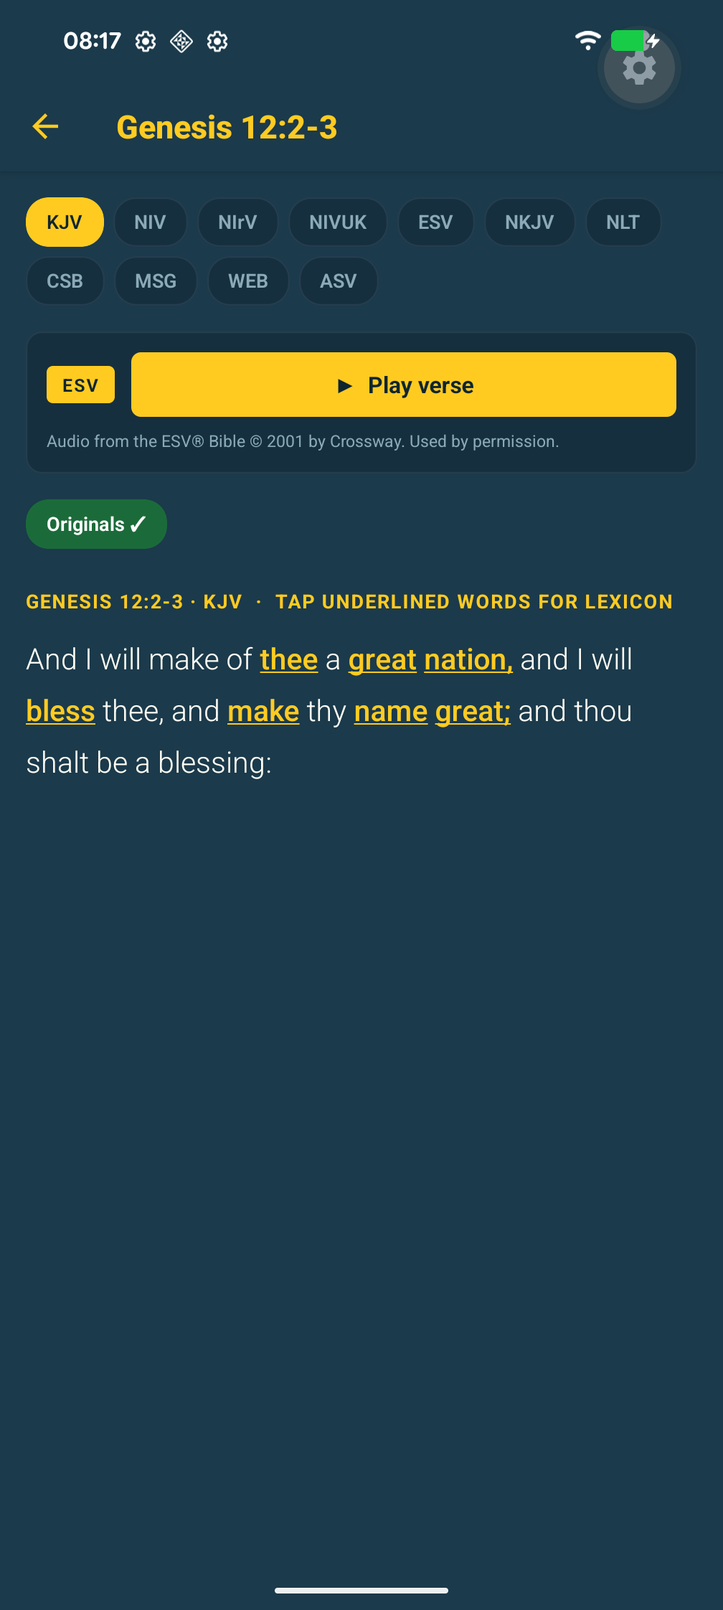
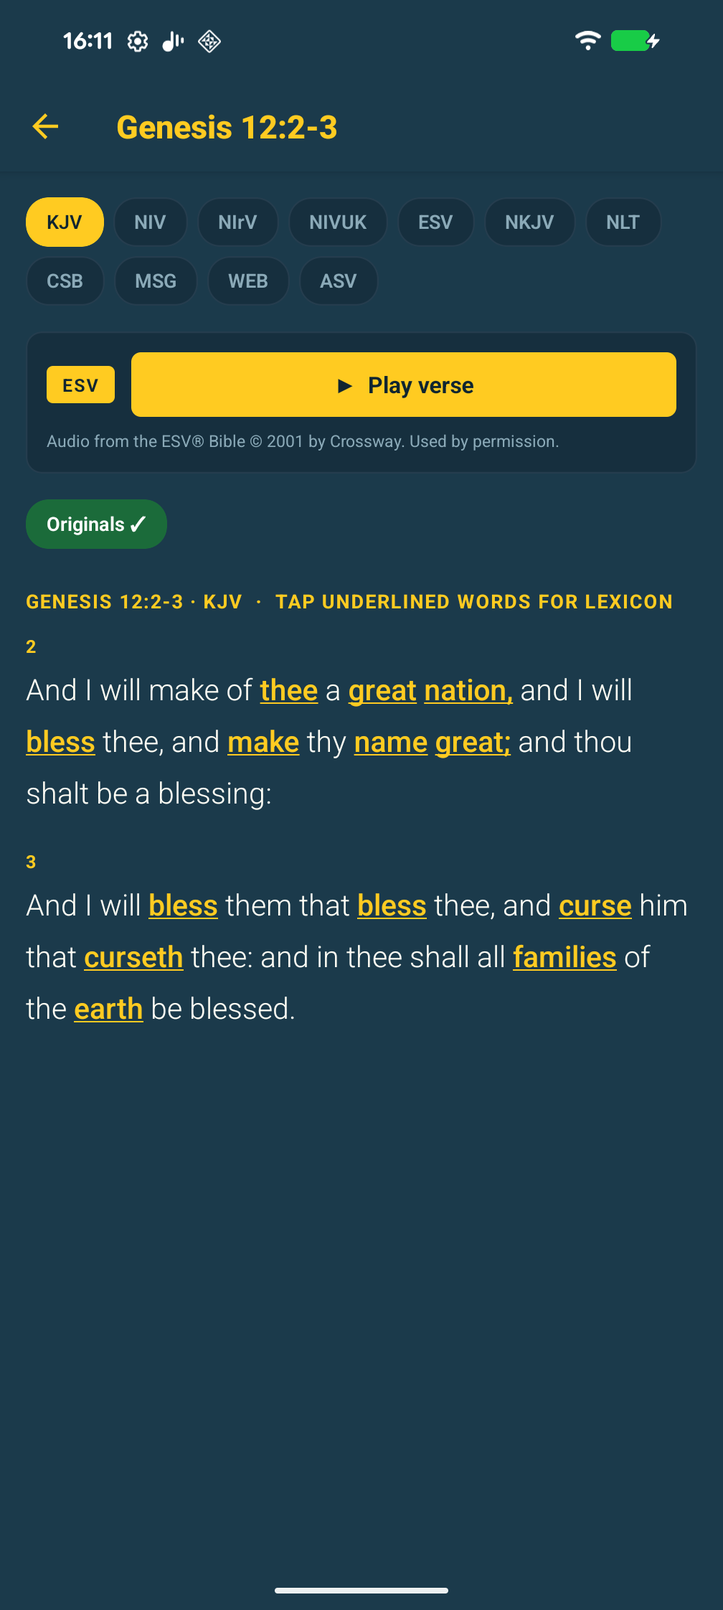
Update app version and build numbers; add new blog posts and screenshots

diff --git a/docs/blog-post-mobile-launch.md b/docs/blog-post-mobile-launch.md
@@ -1,0 +1,150 @@
+<!--
+Image paths below are relative to the repo, pointing at
+mobile/screenshots/formatted/android/. When publishing on askadam.cloud,
+move these into the post's image folder and update the src= values.
+-->
+
+# A small app, two app stores, fourteen days
+
+Tour of the Bible has a mobile app now. iOS is on the App Store. Android is in closed testing on Google Play, walking out the 14-day clock that Google now imposes on every new developer account before they let you near the production track. The same JavaScript bundle drives both apps and the website it grew out of.
+
+<figure style="margin: 2rem 0; text-align: center;">
+  <img src="../mobile/screenshots/formatted/android/tour.png" alt="The main reading-plan view on Android, showing the 66-book checklist with progress at the top." style="max-width: 320px; width: 100%; border-radius: 18px; box-shadow: 0 12px 40px rgba(0,0,0,0.18);" />
+  <figcaption style="margin-top: 0.75rem; font-size: 0.9rem; color: #6b7a82;">The whole tour, on a phone. Same checklist as the website, just thumb-shaped.</figcaption>
+</figure>
+
+I expected this to be straightforward. The reading-plan logic, the verse fetcher, the lexicon, the audio player — all of that already existed in the [web version](https://bible-tour.vercel.app). I told myself I was wrapping it for a phone.
+
+The code part was true. Almost everything else wasn’t.
+
+## What going mobile actually meant
+
+The website is a single-page Next.js app on Vercel. It proxies the YouVersion and Crossway APIs server-side so the keys never reach the browser. Progress lives in the browser’s `localStorage`. There is no database, no auth, no analytics SDK.
+
+I wanted the same shape on mobile. Same proxy. Same on-device storage. Same lack of user account. Same lack of telemetry. The only architectural change was that the components needed to render in React Native instead of HTML, and the network calls would come from a phone instead of a Chrome tab.
+
+So: Expo SDK 55 on React Native 0.83, Expo Router for navigation (file-based, almost identical to the Next.js App Router I already knew), EAS for the native compile and signing, expo-audio for ESV verse narration that survives backgrounding. The Strong’s lexicon ships as a precomputed JSON inside the bundle. There is no runtime database to manage because there is no runtime database.
+
+The new code came to a few thousand lines of TypeScript, mostly screen layout and audio session glue. That part went quickly.
+
+## How I actually built it
+
+Most of this was written with [Claude Code](https://www.claude.com/product/claude-code) sitting in my terminal. I want to be honest about what that means in practice, because “I built it with AI” is a phrase that has started to mean nothing.
+
+A few things I noticed.
+
+If I gave Claude the whole source of a file rather than just the function I was editing, the suggestions respected what was already there. If I gave it a snippet, the suggestions read fine on their own and quietly broke the surrounding code. Same model, same prompt, vastly different output, just because of context. Most of the “the AI wrote bad code” stories I see boil down to this. People hand it half a problem and then complain it gave back half an answer.
+
+Smaller asks were better. “Add a Strong’s lexicon overlay” gives you a sweeping rewrite. “Extract the existing modal into its own component first, and then I’ll add the overlay in a follow-up” gives you something you can read in thirty seconds and accept. The model is perfectly capable of large changes. The problem is large changes are hard to audit, and unaudited changes are how you ship things you regret.
+
+I wrote a lot of negative constraints up front. “No analytics. No third-party SDKs. No backend storage. No accounts.” That single specification probably saved me a half-day of nudging the model away from the React-Native default of bolting on Sentry, Firebase, and a registration screen.
+
+Boilerplate is where the model earned its keep. EAS config, app.json scaffolding, Expo Router file structure, the dozen pages of React Native StyleSheet declarations that every screen needs — that’s where I let it cook and saved my actual brain for the audio session and the lexicon highlighting tokenizer.
+
+When something didn’t work the fastest fix was almost always to paste the exact error in and say what I expected. Not because the model is smarter than me. Because I’d lose ten minutes finding the right line and it would lose ten seconds.
+
+The conversation log over this two-week stretch ran to hundreds of turns. I’d guess about 80% of the lines of code in the mobile app were typed by Claude first. About 100% of the decisions about what to build and why were mine. That ratio felt right.
+
+I’ll say something opinionated here, since it’s the elephant in the room. I don’t care which keystrokes wrote which lines. I care whether the thing works, whether it’s honest about what it does, and whether I can fix it next time it breaks. By all three measures the code in this repo is better than what I’d have produced solo, in a fraction of the time. Anyone telling you that you’re “not really shipping” if you used a model is selling you something — usually their own ego.
+
+## The submissions stuff is where the time really went
+
+The actual build was three days of work. The remaining ten days were forms.
+
+To get an iOS app onto the App Store you need a developer account, a distribution certificate, a provisioning profile, an App Store Connect listing with a name, subtitle, promo text, full description, keywords, screenshots in three different device-class sizes, the age-rating questionnaire, the App Privacy nutrition label, a copyright line, support URL, marketing URL, privacy policy URL, age rating answers, an export-compliance declaration about whether your app uses encryption, and the actual binary. There is also a Privacy Manifest XML that lives inside the app bundle and declares exactly which iOS APIs you call and why, with reason codes you have to look up. UserDefaults access, for example, is reason code CA92.1. That is a real number you have to know about.
+
+Google Play is comparable in scope and considerably harder if you’re a new developer. You need a $25 one-off account fee, a listing with a short description (80 chars), a long one (4,000 chars), a feature graphic at exactly 1024×500, a 512×512 icon, phone screenshots, content rating, target audience, ads declaration, news-app declaration, government-app declaration, COVID-19 declaration, financial-features declaration, app-access declaration, the Data Safety form (which is a more granular cousin of Apple’s nutrition label), and a privacy policy URL.
+
+And then the policy that genuinely caught me out. Since November 2023, personal Play developer accounts must run a closed test with at least 12 active testers for 14 consecutive days before the production track even unlocks. There is no exception. There is no waiver. There is no fast-track. You wait the fortnight or you don’t ship. I am, as I write this, sitting in the middle of that fortnight.
+
+The Data Safety form alone has 26 sub-questions across 13 categories, and every “no” still requires a confirmation click. Most days towards the end I spent more time inside App Store Connect and Play Console than in my code editor.
+
+I am not complaining. I am telling you, because nobody told me.
+
+## Things that actually broke
+
+A few specifics that other React Native devs might run into.
+
+I inherited a `package.json` where the `expo` package was on `~54.0.33` but every individual Expo module had been bumped to `^55.x` at some point. iOS builds tolerated this. Android Kotlin compilation rejected it instantly with an `Unresolved reference 'service'` error coming out of `expo-constants`. The fix was running `expo install expo@^55` to align the SDK, then `expo install --check --fix` to pull every other module to its blessed version. Lesson: pin your SDK and never mix.
+
+The mobile app lives in a `mobile/` folder inside the larger website repo. Both have their own `node_modules` with their own `react`. Metro’s resolver walks up the tree by default, finds two reacts at different versions, and gets confused in a way that surfaces three layers down the stack. The fix is a tiny `metro.config.js` that pins resolution to the mobile folder only:
+
+```js
+config.resolver.disableHierarchicalLookup = true;
+config.resolver.nodeModulesPaths = [path.resolve(__dirname, 'node_modules')];
+```
+
+The most annoying one was `RECORD_AUDIO`. Google Play kept demanding a privacy-policy URL because the AAB declared the permission. We don’t record any audio. The permission was being merged into our final `AndroidManifest.xml` from `expo-audio`’s own manifest, because expo-audio supports recording even though we only use the playback half of it. Native dependencies merging permissions you didn’t ask for is, I learned, a thing that just happens on Android. The fix turned out to be a 25-line config plugin that injects `tools:node="remove"` to strip the permission at manifest-merge time:
+
+```js
+manifest['uses-permission'].push({
+  $: { 'android:name': 'android.permission.RECORD_AUDIO', 'tools:node': 'remove' },
+});
+```
+
+A couple of hours to track down. Twenty minutes to fix.
+
+The first Apple submission got rejected on guideline 2.5.4: background audio mode declared but no audible content found. The reviewer hadn’t found the play button. It lives inside a verse modal, only on the ESV translation, behind a translation pill switcher. Three taps deep. I didn’t need to change the binary; I just needed to send step-by-step reproduction instructions and a screen recording through the Resolution Center. Approved on the next pass. The lesson there is that App Review is run by people, not robots, and people benefit from being told where to look.
+
+<figure style="margin: 2rem 0; text-align: center;">
+  <img src="../mobile/screenshots/formatted/android/verse_esv.png" alt="The verse modal in ESV mode, with the audio player bar at the bottom of the screen." style="max-width: 320px; width: 100%; border-radius: 18px; box-shadow: 0 12px 40px rgba(0,0,0,0.18);" />
+  <figcaption style="margin-top: 0.75rem; font-size: 0.9rem; color: #6b7a82;">The audio bar Apple’s reviewer didn’t find on the first try. Switch to ESV, scroll, tap play.</figcaption>
+</figure>
+
+And then a verse-range bug nobody had caught on the web app, which is mildly humiliating: Originals mode, the Hebrew/Greek lexicon view, was only displaying the first verse of any multi-verse reference. The reading plan is full of ranges like `Genesis 12:2-3` and `Exodus 20:1-17`. The token lookup function used `String(ref).match(/^(\d+):(\d+)/)`, which captured only the first verse number. Two hours of debugging, six lines of new logic. Both apps got the fix because the lexicon code is shared. That, as a bonus, is the single best argument for a shared core: when you find a bug, you fix it once.
+
+<div style="display: flex; gap: 1rem; flex-wrap: wrap; justify-content: center; margin: 2rem 0;">
+  <figure style="flex: 1 1 280px; max-width: 320px; margin: 0; text-align: center;">
+    <img src="../mobile/screenshots/formatted/android/orginals_active.png" alt="Originals mode showing the KJV with Hebrew and Greek words highlighted in yellow." style="width: 100%; border-radius: 18px; box-shadow: 0 12px 40px rgba(0,0,0,0.18);" />
+    <figcaption style="margin-top: 0.75rem; font-size: 0.9rem; color: #6b7a82;">Originals mode. Yellow words have a Strong’s entry behind them.</figcaption>
+  </figure>
+  <figure style="flex: 1 1 280px; max-width: 320px; margin: 0; text-align: center;">
+    <img src="../mobile/screenshots/formatted/android/orginals_panel.png" alt="The lexicon drawer expanded, showing the Strong's entry for a Hebrew word." style="width: 100%; border-radius: 18px; box-shadow: 0 12px 40px rgba(0,0,0,0.18);" />
+    <figcaption style="margin-top: 0.75rem; font-size: 0.9rem; color: #6b7a82;">Tap a word and the lexicon drawer slides up. Part of speech, gloss, full entry.</figcaption>
+  </figure>
+</div>
+
+## The workflow that emerged
+
+A pattern shook out for the mechanical bits of mobile shipping that I’ll keep using.
+
+Code change locally with Claude in the loop. `npx expo run:ios` or `expo run:android` to a connected device or simulator. Hot-reload covers most iterations, which is a much nicer feedback loop than I’d had on previous mobile work. When I needed a real signed AAB or IPA to upload, I’d kick off `eas build --platform android --profile production --non-interactive` in a background task and keep working. EAS handles auto-submit for Android. iOS submission I kept manual, because pushing a new build cancels any in-progress App Review and I didn’t want to keep restarting the queue.
+
+The piece I underestimated was state across sessions. Every time I started a new Claude Code conversation, I had it read [`docs/handoff-todo.md`](https://github.com/adamswbrown/bible-tour/blob/main/docs/handoff-todo.md) first. Continuity across sessions came from that file, not from the model’s memory. I’d update it at the end of each working session as if I were briefing a colleague who was about to take over from me. Honestly, that one habit was the difference between three coherent sessions and three chaotic ones.
+
+## What I’d do differently
+
+I’d set up Closed Testing with twelve testers as the very first Play release, not after a few rounds of internal testing. The 14-day clock starts whenever you start it, so you might as well start it on day one of the project. I’d also use `expo-build-properties` from the beginning to declare every Android permission stripping rule explicitly, instead of discovering them when Play rejects an AAB.
+
+Screenshots: I’d generate them inside the simulator at the device size each store category demands, rather than capturing native and resizing. Saves a round of rejection.
+
+And I’d write the Notes for Reviewer text upfront, not when Apple asks for it. That alone would have prevented the 2.5.4 rejection if I’d explained the audio-discovery path on the first submission.
+
+## The takeaway, such as it is
+
+A small, principled app can ship for free in two weeks. The hard parts are not the code. The platforms have made distribution paperwork the actual barrier to entry, which means a working app and a finished app are weeks apart. Knowing that going in changes how you scope the work.
+
+I came out of this thinking that pair-programming with a model, done seriously, is the most leveraged software work I’ve ever done. The leverage isn’t in writing more code. It’s in spending your attention only on the decisions that need a human, and letting the model handle the bits where the value of careful human attention is approximately zero.
+
+If you’re thinking about shipping your own small thing, ship it. The friction is real. It’s also entirely known, well-mapped, and survivable. None of it is the bit that should stop you.
+
+<figure style="margin: 2rem 0; text-align: center;">
+  <img src="../mobile/screenshots/formatted/android/settings.png" alt="The Settings / About screen showing the credits and translation list." style="max-width: 320px; width: 100%; border-radius: 18px; box-shadow: 0 12px 40px rgba(0,0,0,0.18);" />
+  <figcaption style="margin-top: 0.75rem; font-size: 0.9rem; color: #6b7a82;">The About screen — credits, translations, the disclaimer that this app is not affiliated with TMBH, and an email address that goes to one human.</figcaption>
+</figure>
+
+## If you want to try it
+
+The iOS version is live on the App Store today. Search “Tour of the Bible”, or use [this link](https://apps.apple.com/app/tour-of-the-bible/id6764106620). It’s free, there’s no account, no in-app purchase, no upsell.
+
+Android is in the awkward 14-day closed-testing window I described above. I’m not asking for testers as a marketing favour. I’m asking because Google won’t unlock the public Play Store track until I have around 12 active testers for two consecutive weeks. If you have an Android phone and five minutes, you’d genuinely be helping me ship.
+
+To join the Android beta, go to [bible-tour.vercel.app/beta](https://bible-tour.vercel.app/beta) and follow the instructions. It’s a two-step: join a Google Group with the Gmail address tied to your Play Store account, then tap the opt-in link. After that, the app installs from the Play Store like anything else and updates itself automatically.
+
+If you’d rather not install anything, the original web version is still at [bible-tour.vercel.app](https://bible-tour.vercel.app) and isn’t going anywhere.
+
+Bugs, feature requests, “this verse is rendering weirdly” notes — email me at [adam@askadam.cloud](mailto:adam@askadam.cloud), or open an issue at [github.com/adamswbrown/bible-tour](https://github.com/adamswbrown/bible-tour). I read everything that lands in either place.
+
+— Adam
+
+*[Tour of the Bible on the App Store](https://apps.apple.com/app/tour-of-the-bible/id6764106620) · [Android beta](https://bible-tour.vercel.app/beta) · [Source](https://github.com/adamswbrown/bible-tour)*

diff --git a/docs/blog-post-bible-tour-and-eagle.md b/docs/blog-post-bible-tour-and-eagle.md
@@ -1,0 +1,213 @@
+# From Bible Tour to Eagle Method
+
+I didn’t set out to build a Bible app.
+
+I just wanted a better way to use [Matt Whitman’s *Lightning-Fast Field Guide to the Bible*](https://www.thetmbh.com/tourofthebible) in real life.
+
+What I loved about the idea behind the tour was how refreshingly doable it felt. Instead of treating the Bible like something you had to conquer with a giant reading plan, it gave you a way to move across all 66 books in one sitting by reading a small set of carefully chosen passages. It made the whole thing feel approachable.
+
+But as soon as I tried imagining myself actually using it, I kept running into the same thought: this would be much easier with a really simple companion app.
+
+Not a platform. Not a church product. Not an “engagement” machine with accounts, streaks, notifications, and all the usual baggage. Just something clean that would let you open the verses quickly, keep your place, and make the whole experience feel less awkward.
+
+That was the beginning of **Bible Tour**.
+
+## The first version was intentionally small
+
+The main app is basically built around one promise: make it easy to move through the tour without friction.
+
+So I kept it simple on purpose.
+
+It runs on **Next.js 16** and **Vercel**. It stores progress in `localStorage`. There’s no database. No user table. No real backend apart from a small verse proxy where it actually matters. You open the app and start reading.
+
+That local-first decision ended up shaping almost everything else.
+
+I didn’t want somebody to feel like they had to “join” something before they could read Genesis 12 or Romans 1. I wanted the app to feel ready the second it loaded.
+
+So the first version focused on a few practical things:
+
+- a checklist covering all 66 books
+- inline verse reading
+- translation options
+- progress that stays on the device
+
+That sounds modest, but I still think modest is underrated in software. A lot of products are bloated because they’re trying to prove how much they can do. This one got better every time I cut it back to what actually helped.
+
+## Translation support turned out to be a very real design problem
+
+One thing I didn’t want to fake was Bible translation support.
+
+People actually care which version they’re reading, and for good reason. But the moment you support multiple translations, you run into the practical reality that not every version can be handled the same way.
+
+So the app ended up with a split setup:
+
+- **YouVersion Developer API** for licensed translations like NIV
+- **bible-api.com** for public-domain translations like KJV, WEB, and ASV
+
+That meant I could offer real options without pretending the licensing landscape didn’t exist. If the text can be shown inline, great. If it can’t, the app hands off cleanly instead of doing something weird.
+
+In hindsight, that was one of the more important product decisions in the whole build. It kept the experience honest.
+
+## Then I ran into the next obvious question
+
+Once the main app existed, I started feeling the limitation of it pretty quickly.
+
+Bible Tour is great for breadth. It helps you move. It helps you get a feel for the shape of Scripture. But after you’ve worked through a few books, another question starts to show up:
+
+What do you do when one of those verses actually sticks with you?
+
+What if you don’t just want to check off Ephesians or Isaiah or John? What if you want to remember something from it properly?
+
+That’s where the **Eagle Method** came in.
+
+I’d been watching [a video from Bible Animations](https://www.youtube.com/watch?v=V6cLQVFQN7o) that described Scripture memory in a way I found really compelling. The framing was simple:
+
+1. Survey the river.
+2. Map the river.
+3. Follow the current.
+
+What I liked about it was that it didn’t treat memorisation like brute-force repetition. It treated it more like orientation. Before trying to hold onto a verse, you first understand the book, then find the verse inside it, then follow the surrounding flow of thought so the verse isn’t floating around by itself.
+
+That immediately felt like the natural “part two” of Bible Tour.
+
+The first app helps you travel across the Bible.
+The Eagle layer helps you stay with something once you’ve found it.
+
+## I didn’t want a separate product
+
+This part mattered to me.
+
+I could have taken the Eagle idea and spun it into a separate app, but that would have been the wrong move. It would have fractured the experience and duplicated a bunch of logic the project already had.
+
+The original app already knew:
+
+- the books
+- the reading plan
+- the verse references
+- the translation setup
+
+So instead of building something parallel, I added a second route structure:
+
+- `/eagle`
+- `/eagle/[book]`
+
+That let the study flow grow out of the tour instead of sitting awkwardly beside it.
+
+## The Eagle app became a different kind of reading experience
+
+The Eagle index is pretty lightweight. It lets you browse all the books, filter by testament, and mark books as studied. It’s meant to feel like a doorway, not a destination.
+
+The real work happens on the book pages.
+
+Each one walks through the three stages.
+
+### Stage 1: Survey the river
+
+This is the part where you ask the basic questions you should probably ask before trying to “memorise” anything:
+
+- Who wrote this?
+- When?
+- For whom?
+- Why?
+
+I didn’t want this stage to turn into a giant commentary layer. The goal wasn’t to build a theology engine. The goal was just to give each book a lens.
+
+So the app uses local intro data in `app/data/book-info.json`, with optional IQ Bible enrichment where it helps. That keeps the feature useful without making it brittle.
+
+### Stage 2: Map the river
+
+This is the part I found unexpectedly satisfying to build.
+
+A reference like `Ephesians 2:8-10` is not just a citation. It has shape. It lives somewhere in the book. It has a physical sense to it once you stop treating it like a disconnected label.
+
+So I built parsing around the actual kinds of references in the reading plan:
+
+- single verses
+- verse ranges
+- cross-chapter spans
+- chapter spans
+- oddball qualitative references that don’t fit neatly into verse math
+
+That let the app do more than say, “Here is your target verse.” It could say, “This lands in chapter 2,” or, where verse counts are available, “This sits roughly here inside the chapter.”
+
+That may sound like a small thing, but I don’t think it is. Location helps memory. Context helps memory. Shape helps memory.
+
+And once I brought the translation system from the main app into Eagle as well, the study flow started feeling much more complete. Now you can read those target verses in the same family of versions the main app supports, with the Eagle side defaulting to **NIV**.
+
+### Stage 3: Follow the current
+
+This was the turning point.
+
+I knew I didn’t want every Eagle page to depend on live third-party requests for context. That would make the experience slower, more fragile, and harder to reason about. So instead, I decided to pre-bake the chapter-level summary layer into the project.
+
+I scraped and normalized chapter summaries for all 66 books.
+
+That gave me:
+
+- **1,189 chapter summaries**
+- stored locally in `app/data/chapter-summaries.json`
+- no runtime dependency for the core context layer
+
+That one decision changed the feel of the feature more than anything else.
+
+Once those summaries were in place, the book pages could build context windows around the target passages instantly. If a reading-plan verse lands in chapter 6, the page can show the nearby chapters, highlight the target zone, and help the reader follow the current of the argument or story.
+
+That made the feature feel less like a UI experiment and more like an actual study tool.
+
+## Underneath it all, the code got cleaner
+
+One thing I’m happy about is that the Eagle work didn’t just add features. It forced the project into a better shape.
+
+The reading plan now lives in a shared module instead of being scattered around route files. Book names, slugs, ids, and reference parsing all come from the same place. The translation definitions are shared too. That means the main app and the Eagle app are not quietly drifting apart every time I touch one of them.
+
+There’s still cleanup I’d do if I kept pushing on it. Some of the UI is still inline in route files, and the Eagle side definitely has room to be componentised further. But the structure is better now than it was when this started, and that matters.
+
+## What I like about the two apps together
+
+The main app and the Eagle app are solving different problems, but they belong in the same product.
+
+The main app is for movement.
+The Eagle app is for staying.
+
+The main app says: here’s how to get your bearings across the whole Bible.
+
+The Eagle app says: now that something caught your attention, here’s how to sit with it properly.
+
+That pairing feels honest to me. It also feels more useful than trying to pretend one interface should do everything.
+
+## What the build reminded me of
+
+This project reinforced something I keep relearning: the best feature ideas usually show up as the next natural question inside something that already works.
+
+Bible Tour worked because it removed friction.
+
+Then the next question was not, “How do I make this bigger?”
+
+It was, “What does a person need after this?”
+
+The answer wasn’t more dashboard. It wasn’t community. It wasn’t AI everywhere. It was context.
+
+That’s what the Eagle app added.
+
+And I think that’s why it feels like it belongs.
+
+## The short version
+
+I built **Bible Tour** as a simple, local-first companion to [Matt Whitman’s *Lightning-Fast Field Guide to the Bible*](https://www.thetmbh.com/tourofthebible) so people could actually move through the 66-book tour without friction.
+
+Then I built **Eagle Method** into the same app as the natural next step: a book-by-book study flow, inspired by [Bible Animations](https://www.youtube.com/@bible.animations), that helps you understand a verse by understanding the book, the location, and the surrounding current of thought.
+
+It’s still a small project.
+
+That’s part of why I like it.
+
+It does two related things, and it does them with a pretty clear point of view.
+
+---
+
+## Publishing notes
+
+- Keep the non-affiliation line for [Matt Whitman / The Ten Minute Bible Hour](https://www.thetmbh.com/tourofthebible).
+- Credit [Bible Animations](https://www.youtube.com/@bible.animations) for the Eagle Method inspiration.
+- Credit biblesummary.info / Chris Juby if you mention the chapter-summary data directly.
+- Credit Wikipedia if you talk about the local intro-summary pipeline.
